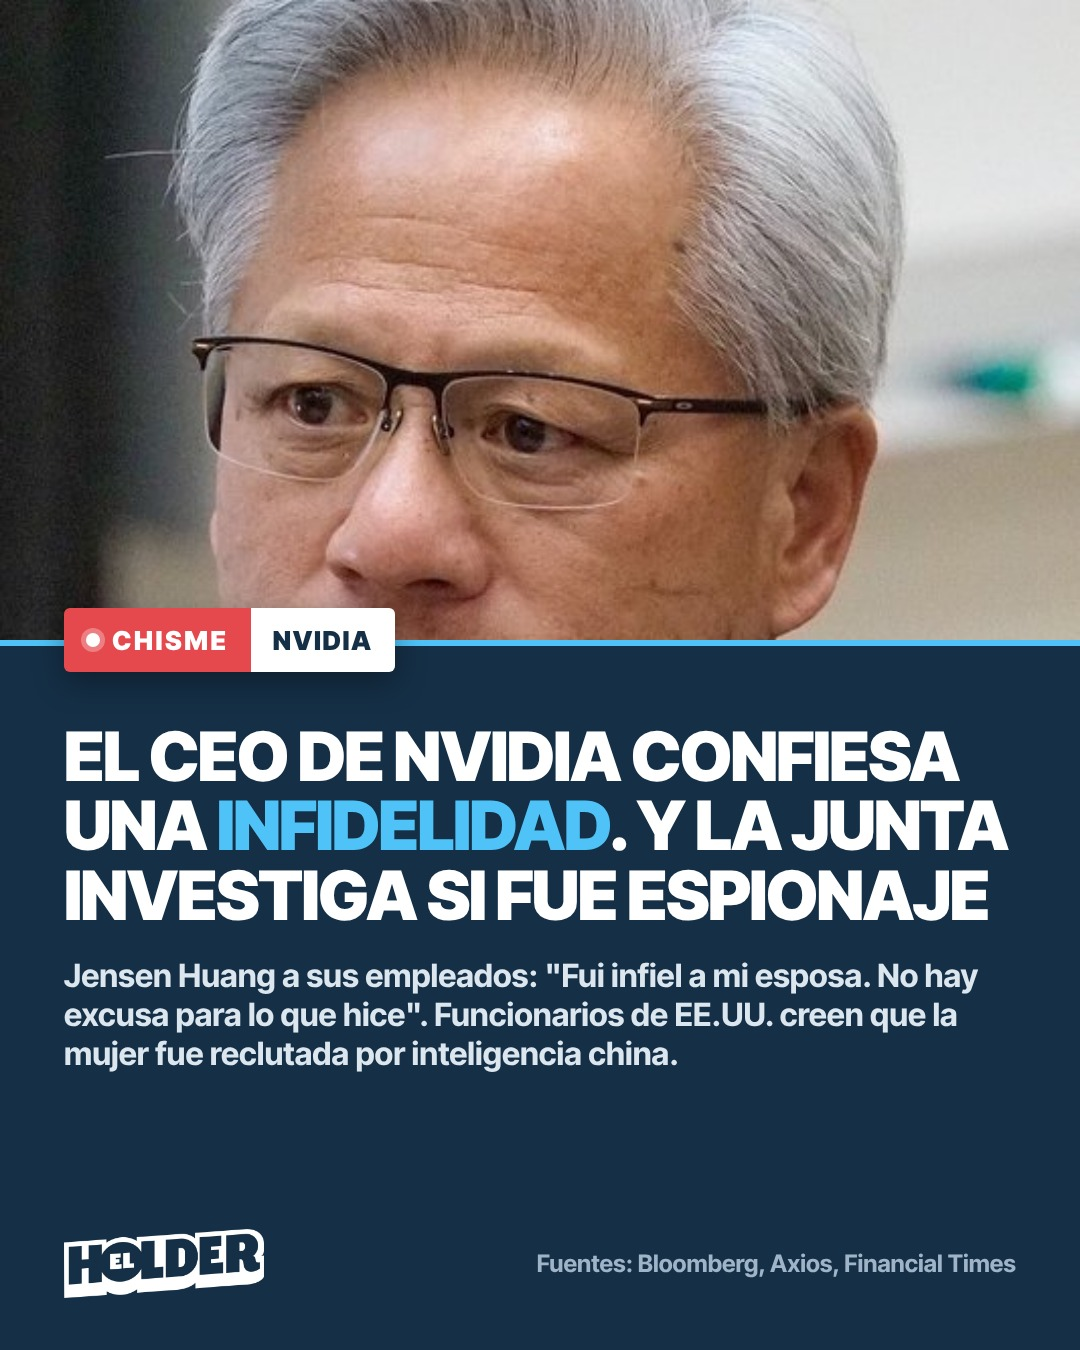
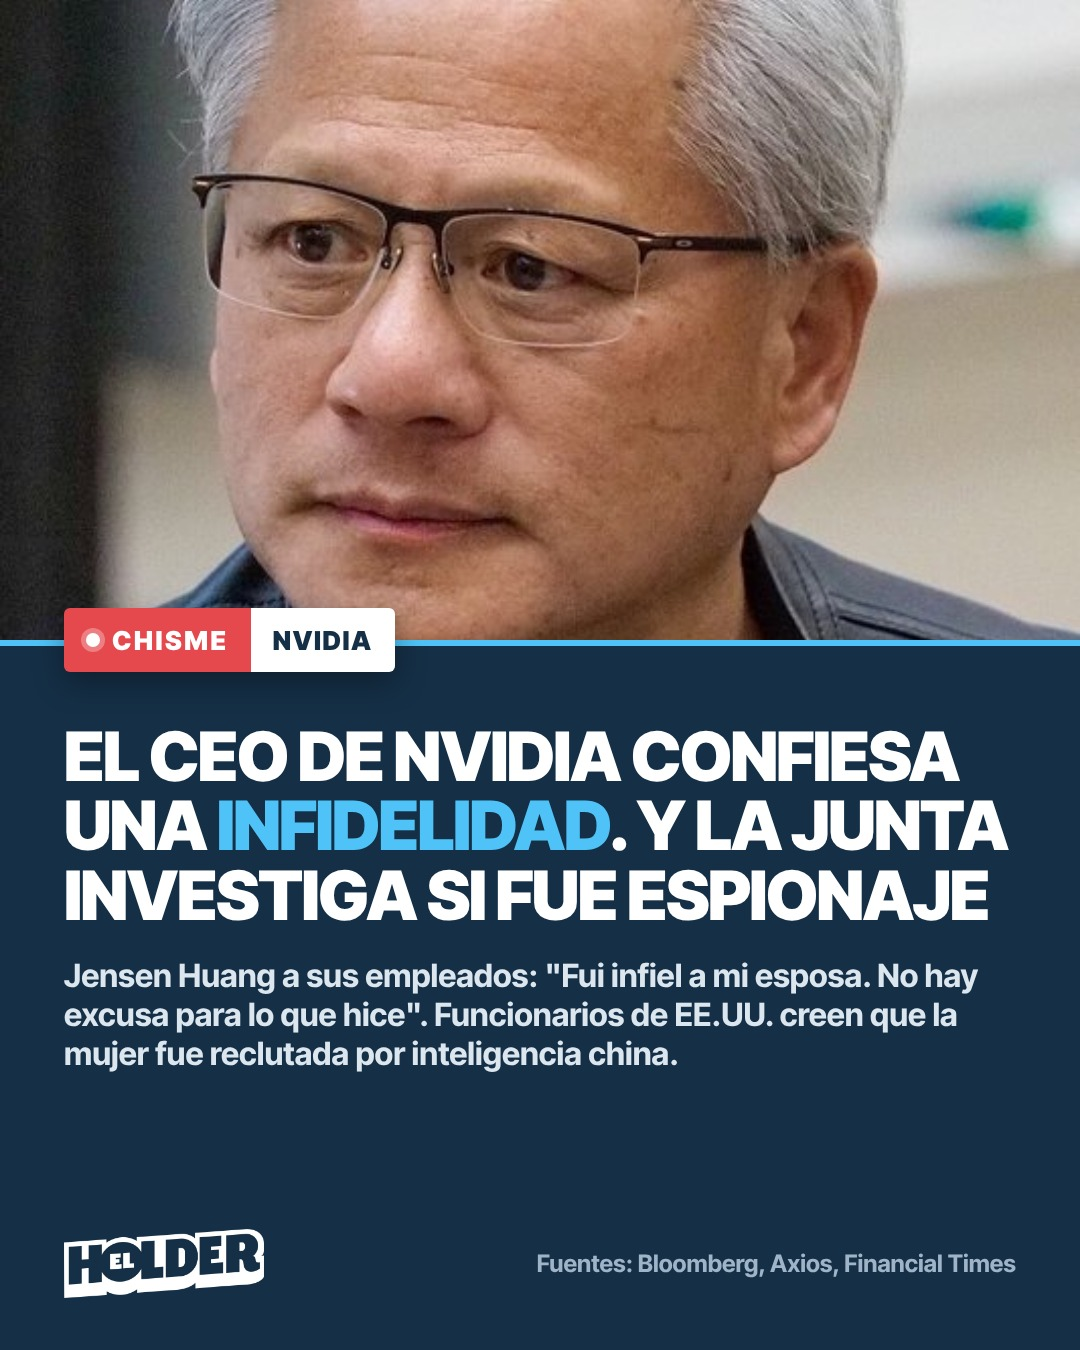
Jensen Huang: encuadre de portada
Claude-Session: https://claude.ai/code/session_011HtJt2a4sBpoLENGy2J6xAB

diff --git a/carruseles/2026-11-08-jensen-huang/src/slide-01.html b/carruseles/2026-11-08-jensen-huang/src/slide-01.html
@@ -4,7 +4,7 @@
 @font-face{font-family:'IT';font-weight:900;src:url('../../../fonts/inter-tight-latin-900-normal.woff2')}
 html,body{margin:0}*{box-sizing:border-box}
 body{width:1080px;height:1350px;position:relative;overflow:hidden;background:#152F46;font-family:'IT';color:#fff}
-#foto{position:absolute;left:0;top:0;width:1080px;height:640px;background:url(foto1.jpg) center 22%/cover}
+#foto{position:absolute;left:0;top:0;width:1080px;height:640px;background:url(foto1.jpg) center 44%/cover}
 #bar{position:absolute;left:0;top:640px;width:1080px;height:6px;background:#4FC3F7}
 #pill{position:absolute;left:64px;top:608px;display:flex;align-items:stretch;height:64px;border-radius:6px;overflow:hidden;box-shadow:0 10px 30px rgba(0,0,0,.35)}
 #pill .l{display:flex;align-items:center;gap:12px;background:#E5484D;color:#fff;font-weight:900;font-size:26px;letter-spacing:.1em;padding:0 22px}
